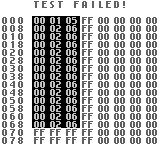
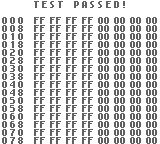
window timing improvements

Changed region(s): [[0.1875, 0.1111, 0.5, 0.8889], [0.5625, 0.0, 0.6562, 0.0556], [0.4688, 0.0, 0.5, 0.0556]]

diff --git a/gb/src/ppu/ppu.rs b/gb/src/ppu/ppu.rs
@@ -115,7 +115,7 @@ pub struct Ppu {
     window_line_enabled: bool,
     window_x: i32,
     x: u8,
-    sampled_scx: u8,
+    fine_scroll_done: bool,
     pub prev_stat_flag: bool,
     pub line_clocks: u32,
     pub mode: Mode,
@@ -177,7 +177,7 @@ impl Ppu {
             window_x: 0,
             window_line_enabled: false,
             x: 0,
-            sampled_scx: 0,
+            fine_scroll_done: false,
             prev_stat_flag: false,
             line_clocks: 0,
             mode: Mode::HBlank,
@@ -514,16 +514,13 @@ impl Ppu {
     fn init_pixel_transfer(&mut self) {
         self.pipeline_active = true;
         self.x = 0;
-        self.window_x = (self.wx as i32) - 7;
         self.dropped_pixels = 0;
+        self.fine_scroll_done = false;
 
         // Reset
         for x in self.line_tiles.iter_mut() {
             *x = None;
         }
-
-        // TODO check this
-        self.sampled_scx = self.scx;
 
         self.bg_fifo.clear();
         self.fetcher.start_line(FETCHER_START_DELAY);
@@ -545,19 +542,51 @@ impl Ppu {
         }
 
         // Window trigger - BG FIFO is cleared and the fetcher starts over with the window tiles
-        let scx_discarded = self.dropped_pixels == self.sampled_scx % (TILE_SIZE as u8);
-        let wx = self.wx.saturating_sub(7);
-        if bg_enabled
-            && is_window_enabled(&self.lcdc)
+        // SCX fine scroll is compared live on every dot until it matches the discarded pixels count
+        if !self.fine_scroll_done && self.dropped_pixels == self.scx % (TILE_SIZE as u8) {
+            self.fine_scroll_done = true;
+        }
+        let scx_discarded = self.fine_scroll_done;
+        // The window doesn't trigger at WX=166 on DMG
+        let max_wx = if self.is_cgb { 166 } else { 165 };
+        // The trigger doesn't depend on LCDC.0, the window just isn't rendered then
+        if is_window_enabled(&self.lcdc)
             && self.window_line_enabled
             && self.fetcher.layer != MapLayer::Window
             && scx_discarded
-            && self.x == wx
+            && self.wx <= max_wx
+            && self.x == self.wx.saturating_sub(7)
         {
             self.bg_fifo.clear();
             self.fetcher.start_window(self.window_line);
             self.window_line += 1;
-            return;
+            // WX is sampled at the trigger, it can be changed during mode 3
+            self.window_x = (self.wx as i32) - 7;
+
+            // WX < 7 - on hardware the window is triggered (7 - WX) dots earlier, while the first
+            // (junk) tile is still being shifted out. Catch the fetcher up, the first (7 - WX)
+            // window pixels are then discarded below in the time the window would have taken.
+            let head_start = 7u8.saturating_sub(self.wx);
+            for _ in 0..head_start {
+                self.fetcher.tick(
+                    &self.vram,
+                    &self.lcdc,
+                    self.scx,
+                    self.ly.wrapping_add(self.scy),
+                    &mut self.bg_fifo,
+                );
+            }
+            if self.bg_fifo.is_empty() {
+                return;
+            }
+
+            // WX=0 with SCX%8=0 triggers 7 dots before the first visible pixel, but the fetcher
+            // can't push sooner than on this dot - shift out one of the 7 discarded pixels now.
+            // (with SCX%8>0 WX=0 triggers one dot later, the timing then matches the model)
+            if self.wx == 0 && self.scx % (TILE_SIZE as u8) == 0 {
+                self.bg_fifo.shift();
+                self.window_x += 1;
+            }
         }
 
         let Some(fifo_item) = self.bg_fifo.shift() else {
@@ -566,17 +595,15 @@ impl Ppu {
 
         // discard pixels from tile that are not visible due to X scroll (the FIFO is clocked even if BG is disabled)
         if !scx_discarded {
-            self.dropped_pixels += 1;
+            self.dropped_pixels = (self.dropped_pixels + 1) % (TILE_SIZE as u8);
             return;
         }
 
-        if bg_enabled {
-            // WX is between <0,6> - discard pixels of the first window tile
-            // TODO WX=0 is probably broken somehow https://discord.com/channels/465585922579103744/465586075830845475/786173202211799051
-            if self.fetcher.layer == MapLayer::Window && self.window_x < 0 {
-                self.window_x += 1;
-                return;
-            }
+        // WX is between <0,6> - discard pixels of the first window tile
+        // TODO WX=0 is probably broken somehow https://discord.com/channels/465585922579103744/465586075830845475/786173202211799051
+        if self.fetcher.layer == MapLayer::Window && self.window_x < 0 {
+            self.window_x += 1;
+            return;
         }
 
         let bg_layer_enabled = self.is_cgb || bg_enabled;

diff --git a/docs/results/results.md b/docs/results/results.md
@@ -259,12 +259,12 @@ https://github.com/mattcurrie/mealybug-tearoom-tests
 | m3_scx_high_5_bits                | ![](m3_scx_high_5_bits/expected.png)                | ![](m3_scx_high_5_bits/result.png)                | ![](m3_scx_high_5_bits/diff.png)                | ❌ Diff: 84    |
 | m3_scx_low_3_bits                 | ![](m3_scx_low_3_bits/expected.png)                 | ![](m3_scx_low_3_bits/result.png)                 | ![](m3_scx_low_3_bits/diff.png)                 | ❌ Diff: 540   |
 | m3_scy_change                     | ![](m3_scy_change/expected.png)                     | ![](m3_scy_change/result.png)                     | ![](m3_scy_change/diff.png)                     | ❌ Diff: 9590  |
-| m3_window_timing                  | ![](m3_window_timing/expected.png)                  | ![](m3_window_timing/result.png)                  | ![](m3_window_timing/diff.png)                  | ❌ Diff: 18    |
-| m3_window_timing_wx_0             | ![](m3_window_timing_wx_0/expected.png)             | ![](m3_window_timing_wx_0/result.png)             | ![](m3_window_timing_wx_0/diff.png)             | ❌ Diff: 770   |
-| m3_wx_4_change                    | ![](m3_wx_4_change/expected.png)                    | ![](m3_wx_4_change/result.png)                    | ![](m3_wx_4_change/diff.png)                    | ❌ Diff: 11896 |
+| m3_window_timing                  | ![](m3_window_timing/expected.png)                  | ![](m3_window_timing/result.png)                  | ![](m3_window_timing/diff.png)                  | ✅ Diff: 0     |
+| m3_window_timing_wx_0             | ![](m3_window_timing_wx_0/expected.png)             | ![](m3_window_timing_wx_0/result.png)             | ![](m3_window_timing_wx_0/diff.png)             | ✅ Diff: 0     |
+| m3_wx_4_change                    | ![](m3_wx_4_change/expected.png)                    | ![](m3_wx_4_change/result.png)                    | ![](m3_wx_4_change/diff.png)                    | ❌ Diff: 12207 |
 | m3_wx_4_change_sprites            | ![](m3_wx_4_change_sprites/expected.png)            | ![](m3_wx_4_change_sprites/result.png)            | ![](m3_wx_4_change_sprites/diff.png)            | ❌ Diff: 10    |
-| m3_wx_5_change                    | ![](m3_wx_5_change/expected.png)                    | ![](m3_wx_5_change/result.png)                    | ![](m3_wx_5_change/diff.png)                    | ❌ Diff: 10701 |
-| m3_wx_6_change                    | ![](m3_wx_6_change/expected.png)                    | ![](m3_wx_6_change/result.png)                    | ![](m3_wx_6_change/diff.png)                    | ❌ Diff: 6597  |
+| m3_wx_5_change                    | ![](m3_wx_5_change/expected.png)                    | ![](m3_wx_5_change/result.png)                    | ![](m3_wx_5_change/diff.png)                    | ❌ Diff: 11806 |
+| m3_wx_6_change                    | ![](m3_wx_6_change/expected.png)                    | ![](m3_wx_6_change/result.png)                    | ![](m3_wx_6_change/diff.png)                    | ❌ Diff: 5757  |
 
 ## AGE test suite
 
@@ -281,7 +281,7 @@ Only DMG-related tests for now. From https://github.com/c-sp/age-test-roms
 | roms/age-test-roms/build/stat-interrupt/stat-int-dmgC-cgbBCE.gb             | ✅     | ![](age-tests/stat-int-dmgC-cgbBCE.gb/result.png)          |
 | roms/age-test-roms/build/stat-mode/stat-mode-dmgC-cgbBC.gb                  | ✅     | ![](age-tests/stat-mode-dmgC-cgbBC.gb/result.png)          |
 | roms/age-test-roms/build/stat-mode-sprites/stat-mode-sprites-dmgC-cgbBCE.gb | ❌     | ![](age-tests/stat-mode-sprites-dmgC-cgbBCE.gb/result.png) |
-| roms/age-test-roms/build/stat-mode-window/stat-mode-window-dmgC.gb          | ❌     | ![](age-tests/stat-mode-window-dmgC.gb/result.png)         |
+| roms/age-test-roms/build/stat-mode-window/stat-mode-window-dmgC.gb          | ✅     | ![](age-tests/stat-mode-window-dmgC.gb/result.png)         |
 | roms/age-test-roms/build/vram/vram-read-dmgC.gb                             | ✅     | ![](age-tests/vram-read-dmgC.gb/result.png)                |
 
-Generated at: 2026-10-06 14:12:42.407232 UTC, took 3s
+Generated at: 2026-10-06 14:31:59.372931 UTC, took 3s
